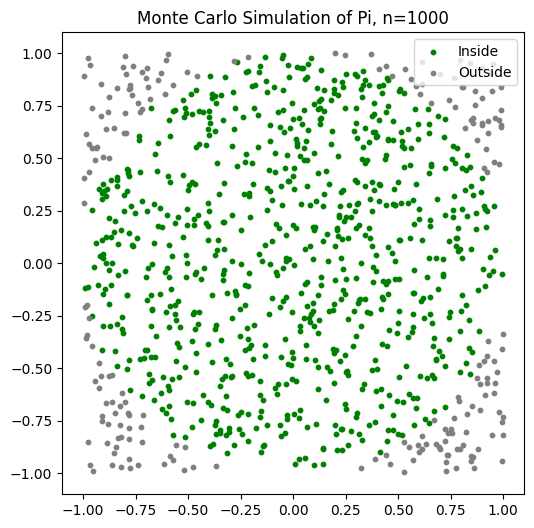
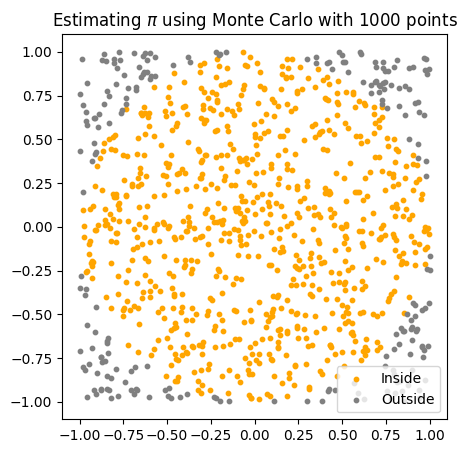
Minor code edits

diff --git a/examples/claude-code-interpreter-js/app.ts b/examples/claude-code-interpreter-js/app.ts
@@ -1,18 +1,15 @@
-// Import necessary libraries and SDKs
-import { Anthropic } from '@anthropic-ai/sdk'
-import { CodeInterpreter, Result } from '@e2b/code-interpreter'
-
-import { ProcessMessage } from '@e2b/code-interpreter'
-import { Tool, ToolUseBlock } from '@anthropic-ai/sdk/resources/beta/tools/messages'
-
 import fs from 'node:fs'
 
+import { Anthropic } from '@anthropic-ai/sdk'
+import { Tool, ToolUseBlock } from '@anthropic-ai/sdk/resources/beta/tools/messages'
+import { CodeInterpreter, Result } from '@e2b/code-interpreter'
+import { ProcessMessage } from '@e2b/code-interpreter'
+
 import * as dotenv from 'dotenv'
+
 dotenv.config()
 
-// Constants: API Keys, Model Name, and system prompt
 const MODEL_NAME = 'claude-3-opus-20240229'
-
 const SYSTEM_PROMPT = `
 ## your job & context
 you are a python data scientist. you are given tasks to complete and you run python code to solve them.
@@ -31,17 +28,17 @@ tool response values that have text inside "[]"  mean that a visual element got 
 
 const tools: Array<Tool> = [
     {
-        "name": "execute_python",
-        "description": "Execute python code in a Jupyter notebook cell and returns any result, stdout, stderr, display_data, and error.",
-        "input_schema": {
-            "type": "object",
-            "properties": {
-                "code": {
-                    "type": "string",
-                    "description": "The python code to execute in a single cell."
+        name: 'execute_python',
+        description: 'Execute python code in a Jupyter notebook cell and returns any result, stdout, stderr, display_data, and error.',
+        input_schema: {
+            type: 'object',
+            properties: {
+                code: {
+                    type: 'string',
+                    description: 'The python code to execute in a single cell.'
                 }
             },
-            "required": ["code"]
+            required: ['code']
         }
     }
 ]
@@ -56,15 +53,12 @@ async function codeInterpret(codeInterpreter: CodeInterpreter, code: string): Pr
         // You can also stream additional results like charts, images, etc.
         // onResult: ...
     })
-    console.log(2)
+
     if (exec.error) {
         console.log('[Code Interpreter ERROR]', exec.error)
-        // return undefined
         throw new Error(exec.error.value)
     }
-    console.log(3)
-    return exec.results  // Ensure that 'results' is the correct property
-
+    return exec.results
 }
 
 
@@ -81,6 +75,7 @@ async function processToolCall(codeInterpreter: CodeInterpreter, toolName: strin
 async function chatWithClaude(codeInterpreter: CodeInterpreter, userMessage: string): Promise<Result[]> {
     console.log(`\n${'='.repeat(50)}\nUser Message: ${userMessage}\n${'='.repeat(50)}`)
 
+    console.log('Waiting for Claude to respond...')
     const message = await client.beta.tools.messages.create({
         model: MODEL_NAME,
         system: SYSTEM_PROMPT,
@@ -116,18 +111,14 @@ async function run() {
 
     try {
         const codeInterpreterResults = await chatWithClaude(
-            await codeInterpreter,
+            codeInterpreter,
             'Calculate value of pi using monte carlo method. Use 1000 iterations. Visualize all point of all iterations on a single plot, a point inside the unit circle should be orange, other points should be grey.'
         )
-
         const result = codeInterpreterResults[0]
         console.log('Result:', result)
         if (result.png) {
             fs.writeFileSync('image.png', Buffer.from(result.png, 'base64'))
         }
-
-        // This would display or process the image/result if applicable
-        // You might need additional logic here to handle images or other outputs
     } catch (error) {
         console.error('An error occurred:', error)
     } finally {

diff --git a/examples/claude-code-interpreter-js/README.md b/examples/claude-code-interpreter-js/README.md
@@ -8,12 +8,12 @@ This is an example of running LLM-generated code tasks in a secure and isolated 
 
 ## Setup
 
-### Set up env
-- Copy .env.template to .env
+### 1. Set up API keys
+- Copy `.env.template`   to `.env`
   - Get the [E2B API KEY](https://e2b.dev/docs/getting-started/api-key)
   - Get the [ANTHROPIC API KEY](https://console.anthropic.com/settings/keys)
 
-### Install packages
+### 2. Install packages
 
 Install the E2B Code Interpreter SDK and the Anthropic AI SDK.
 
@@ -21,17 +21,17 @@ Install the E2B Code Interpreter SDK and the Anthropic AI SDK.
 npm i
 ```
 
-### Run the example
+### 3. Run the example
 
 ```
 npm run start
 ```
 
 
-After running the program, you should get the result for an approximate value of pi, and a visualization of the simulation.
+After running the program, you should get the result for an approximate value of pi, and a visualization of the simulation in a `image.png` file.
 
 ![Example of the output](example.png)
 
 If you encounter any problems, please let us know at our [Discord](https://discord.com/invite/U7KEcGErtQ).
 
-If you want to let the world know about what you're building with E2B, tag [@e2b_dev](https://twitter.com/e2b_dev) on X(Twitter).
+If you want to let the world know about what you're building with E2B, tag [@e2b_dev](https://twitter.com/e2b_dev) on X (Twitter).
